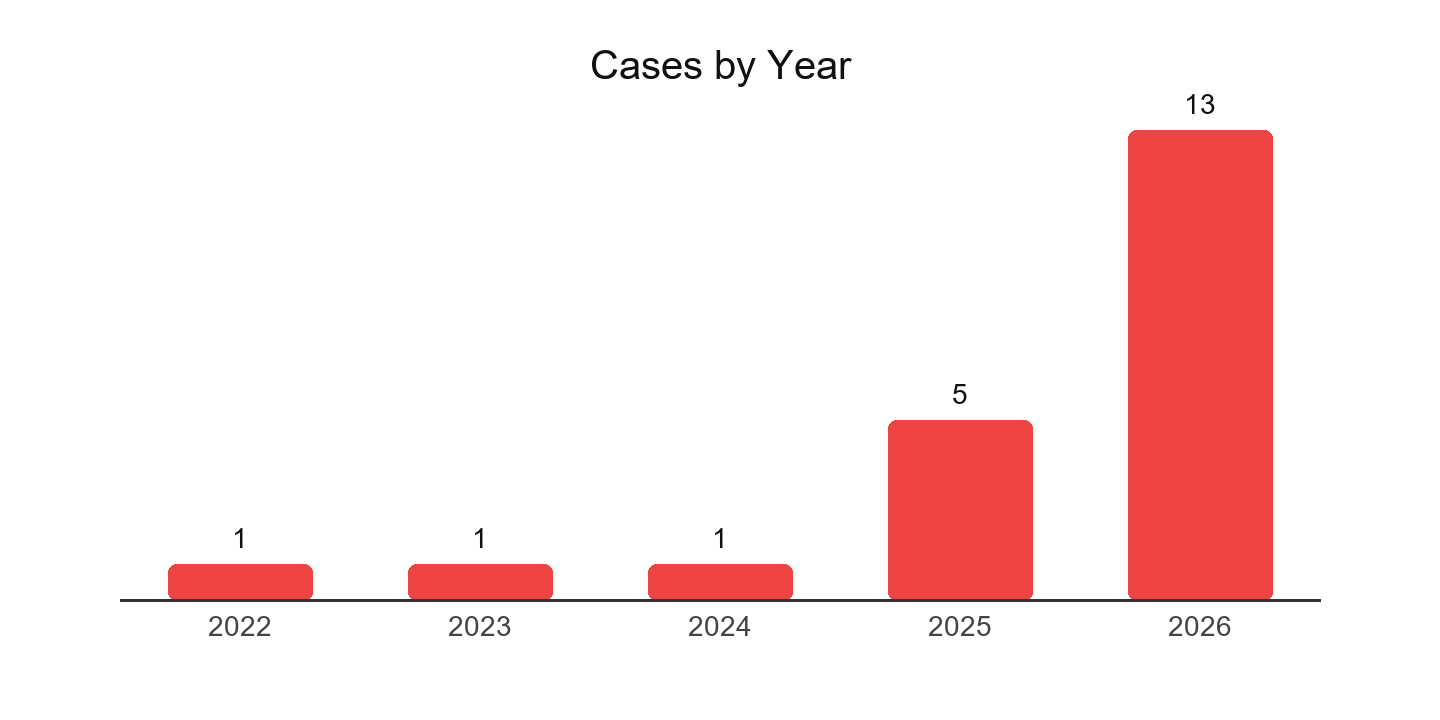
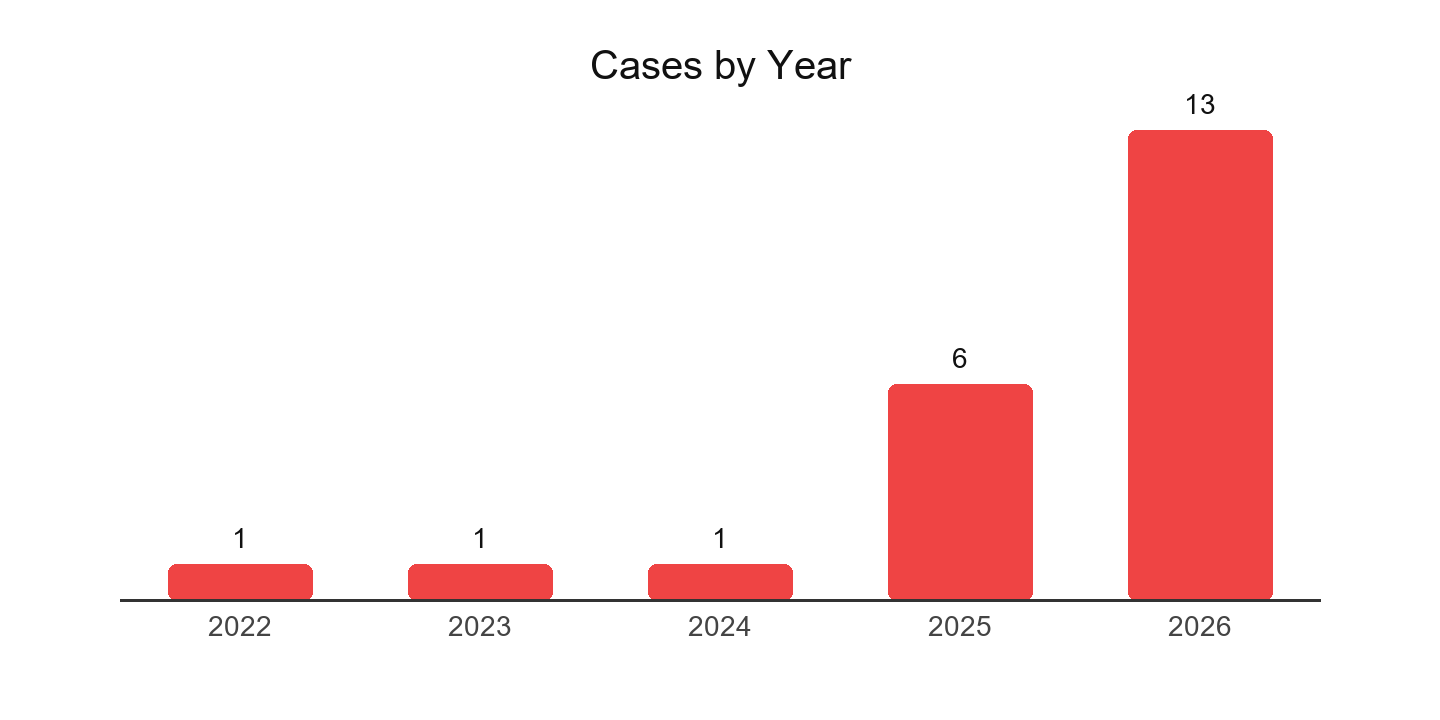
Fix render_index.py

Changed region(s): [[0.5938, 0.4889, 0.7188, 0.6111]]

diff --git a/scripts/render_index.py b/scripts/render_index.py
@@ -9,10 +9,13 @@ Outputs:
   - cases/README.md             (auto-generated case index, grouped by category)
   - assets/category-chart.svg   (donut chart of category distribution)
   - assets/timeline.svg         (bar chart of cases by year)
+  - assets/*.png                (PNG versions of charts)
+  - README.md counts            (patches hard-coded stats in root README)
 """
 from __future__ import annotations
 
 import math
+import re
 import sys
 from pathlib import Path
 
@@ -60,6 +63,71 @@ def load_cases() -> list[dict]:
         if data and data.get("slug"):
             cases.append(data)
     return sorted(cases, key=lambda c: (c["year"], c["slug"]))
+
+
+def update_readme_counts(cases: list[dict]) -> None:
+    """Patch hard-coded case counts in the repo root README.md."""
+    readme = ROOT / "README.md"
+    if not readme.exists():
+        return
+
+    n = len(cases)
+    if n == 0:
+        return
+
+    # Count by category
+    by_cat: dict[str, int] = {}
+    for c in cases:
+        by_cat[c["category"]] = by_cat.get(c["category"], 0) + 1
+
+    # Count AI tools
+    ai_tools: set[str] = set()
+    for c in cases:
+        for t in c.get("ai_tool") or []:
+            ai_tools.add(t)
+    ai_tools_count = len(ai_tools) if ai_tools else 0
+
+    # Count CVEs and collect CVSS scores
+    cve_count = 0
+    cvss_scores: list[float] = []
+    for c in cases:
+        if c.get("cve"):
+            cve_count += 1
+        if c.get("cvss") is not None:
+            try:
+                cvss_scores.append(float(c["cvss"]))
+            except (TypeError, ValueError):
+                pass
+    cvss_str = " / ".join(str(int(s)) for s in sorted(set(int(s) for s in cvss_scores))) if cvss_scores else ""
+
+    yr_min = min(c["year"] for c in cases)
+    yr_max = max(c["year"] for c in cases)
+    cat_active = len(by_cat)
+
+    text = readme.read_text(encoding="utf-8")
+
+    # 1) Update the incidents count in the intro sentence
+    text = re.sub(
+        r'\*\*\d+ verified real-world incidents\*\*',
+        f'**{n} verified real-world incidents**',
+        text,
+    )
+
+    # 2) Update the "At a Glance" one-liner
+    def replace_glance(_m: re.Match) -> str:
+        parts = [f"{n} cases", f"{cat_active} active categories", f"{yr_min} → {yr_max}"]
+        if ai_tools_count:
+            parts.append(f"{ai_tools_count}+ AI tools implicated")
+        if cve_count:
+            cve_part = f"{cve_count} cases anchored to public CVEs"
+            if cvss_str:
+                cve_part += f" (CVSS {cvss_str})"
+            parts.append(cve_part)
+        return "**" + " · ".join(parts) + "**"
+
+    text = re.sub(r'\*\*[\d ]+cases[^*]*\*\*', replace_glance, text)
+
+    readme.write_text(text, encoding="utf-8")
 
 
 def render_index(cases: list[dict]) -> str:
@@ -218,12 +286,11 @@ def render_category_png(cases: list[dict], out_path: Path) -> bool:
         counts[c["category"]] = counts.get(c["category"], 0) + 1
     total = sum(counts.values())
 
-    W, H = 1440, 800  # 2x SVG dims for retina; downscale at display time
+    W, H = 1440, 800
     SCALE = 2
     img = Image.new("RGB", (W, H), "white")
     draw = ImageDraw.Draw(img)
 
-    # Donut: outer r=260, inner r=176, center (400, 400)
     cx, cy, r_out, r_in = 400, 400, 260, 176
     bbox_out = (cx - r_out, cy - r_out, cx + r_out, cy + r_out)
     bbox_in = (cx - r_in, cy - r_in, cx + r_in, cy + r_in)
@@ -237,10 +304,8 @@ def render_category_png(cases: list[dict], out_path: Path) -> bool:
         end = angle + sweep
         draw.pieslice(bbox_out, angle, end, fill=CAT_COLORS[cat_key])
         angle = end
-    # Donut hole
     draw.ellipse(bbox_in, fill="white")
 
-    # Try to load a usable font
     def _font(size: int):
         for path in [
             "/System/Library/Fonts/Helvetica.ttc",
@@ -258,11 +323,10 @@ def render_category_png(cases: list[dict], out_path: Path) -> bool:
                     continue
         return ImageFont.load_default()
 
-    f_big = _font(112 * SCALE // 2)  # ~112
-    f_sm = _font(28 * SCALE // 2)    # ~28
+    f_big = _font(112 * SCALE // 2)
+    f_sm = _font(28 * SCALE // 2)
     f_legend = _font(28 * SCALE // 2)
 
-    # Center text
     tot_text = str(total)
     bb = draw.textbbox((0, 0), tot_text, font=f_big, anchor="lt")
     tw = bb[2] - bb[0]
@@ -270,7 +334,6 @@ def render_category_png(cases: list[dict], out_path: Path) -> bool:
     draw.text((cx - tw // 2, cy - th // 2 - 10), tot_text, fill="#111", font=f_big)
     draw.text((cx, cy + th // 2 + 6), "cases", fill="#666", font=f_sm, anchor="mt")
 
-    # Legend (right side)
     lx = 840
     ly = 150
     box_size = 32
@@ -337,10 +400,8 @@ def render_timeline_png(cases: list[dict], out_path: Path) -> bool:
     f_year = _font(28)
     f_count = _font(28)
 
-    # Title
     draw.text((W // 2, 50), "Cases by Year", fill="#111", font=f_title, anchor="mt")
 
-    # Plot area
     margin = 120
     baseline = H - margin
     plot_top = 130
@@ -375,7 +436,6 @@ def render_timeline_png(cases: list[dict], out_path: Path) -> bool:
             anchor="mt",
         )
 
-    # Baseline
     draw.line(
         ((margin, baseline), (W - margin, baseline)),
         fill="#333",
@@ -408,11 +468,13 @@ def main() -> None:
         print(f"  → assets/category-chart.png ({cat_png.stat().st_size} bytes)")
     else:
         print("  ⚠ Pillow not installed; skipping PNG charts")
-        return
 
     tl_png = ASSETS_DIR / "timeline.png"
     if render_timeline_png(cases, tl_png):
         print(f"  → assets/timeline.png ({tl_png.stat().st_size} bytes)")
+
+    update_readme_counts(cases)
+    print("  → README.md counts updated")
 
 
 if __name__ == "__main__":

diff --git a/cases/README.md b/cases/README.md
@@ -1,6 +1,6 @@
 # Case Index / 案例索引
 
-**21 cases** across **7 categories**, spanning **2022–2026**.
+**22 cases** across **7 categories**, spanning **2022–2026**.
 
 > Auto-generated by `scripts/render_index.py`. Edit `meta.yaml` files, then re-run.
 
@@ -21,6 +21,7 @@
 
 | Year | Title | Severity | AI Tool | CVE |
 |---|---|---|---|---|
+| 2025 | [GitHub Copilot & VS Code AI Output Validation Bypass Vulnerability](./2025-copilot-vscode-cve-62453/) | 🟡 medium | GitHub Copilot, Visual Studio Code | CVE-2025-62453 |
 | 2025 | [CVE-2025-55526 — n8n-workflows Path Traversal in AI-Generated Code](./2025-n8n-path-traversal-cve/) | 🔴 critical | Claude Code | CVE-2025-55526 |
 | 2026 | [Mass CVE Reintroduction by AI Coding Tools (Vibe Security Radar)](./2026-mass-cve-reintroduction/) | 🟠 high | Claude Code, GitHub Copilot, Cursor, Devin | — |
 

diff --git a/README.md b/README.md
@@ -27,7 +27,7 @@ This repository documents the **risks** of AI-generated code through layered evi
 </tr>
 </table>
 
-**22 cases · 7 active categories · 2022 → 2026 · 10+ AI tools implicated · 3 cases anchored to public CVEs (CVSS 9.1 / 9.3 / 9.3)**
+**22 cases · 7 active categories · 2022 → 2026 · 29+ AI tools implicated · 7 cases anchored to public CVEs (CVSS 5 / 9 / 10)**
 
 ---
 